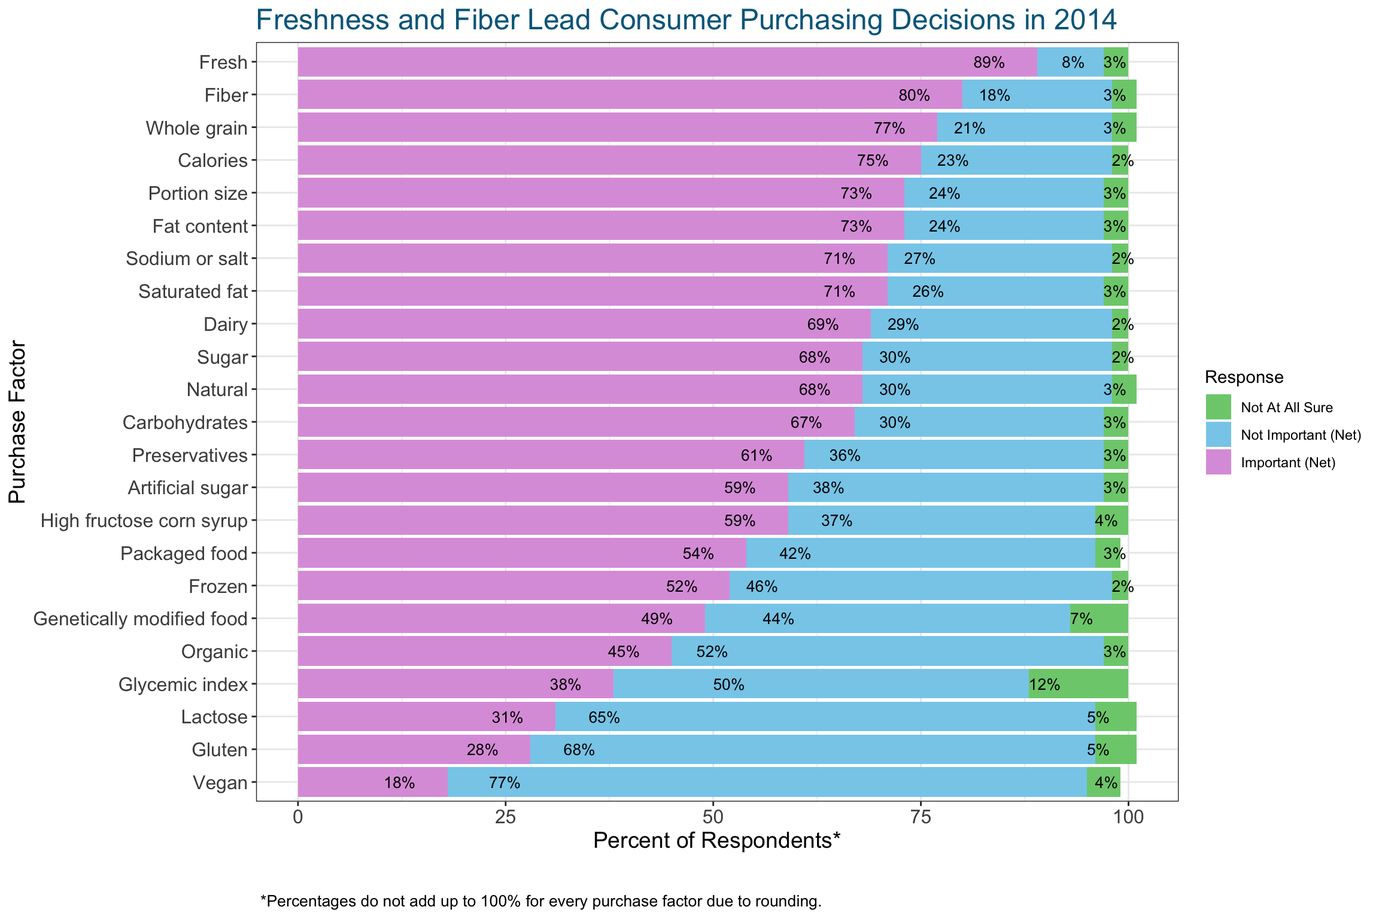
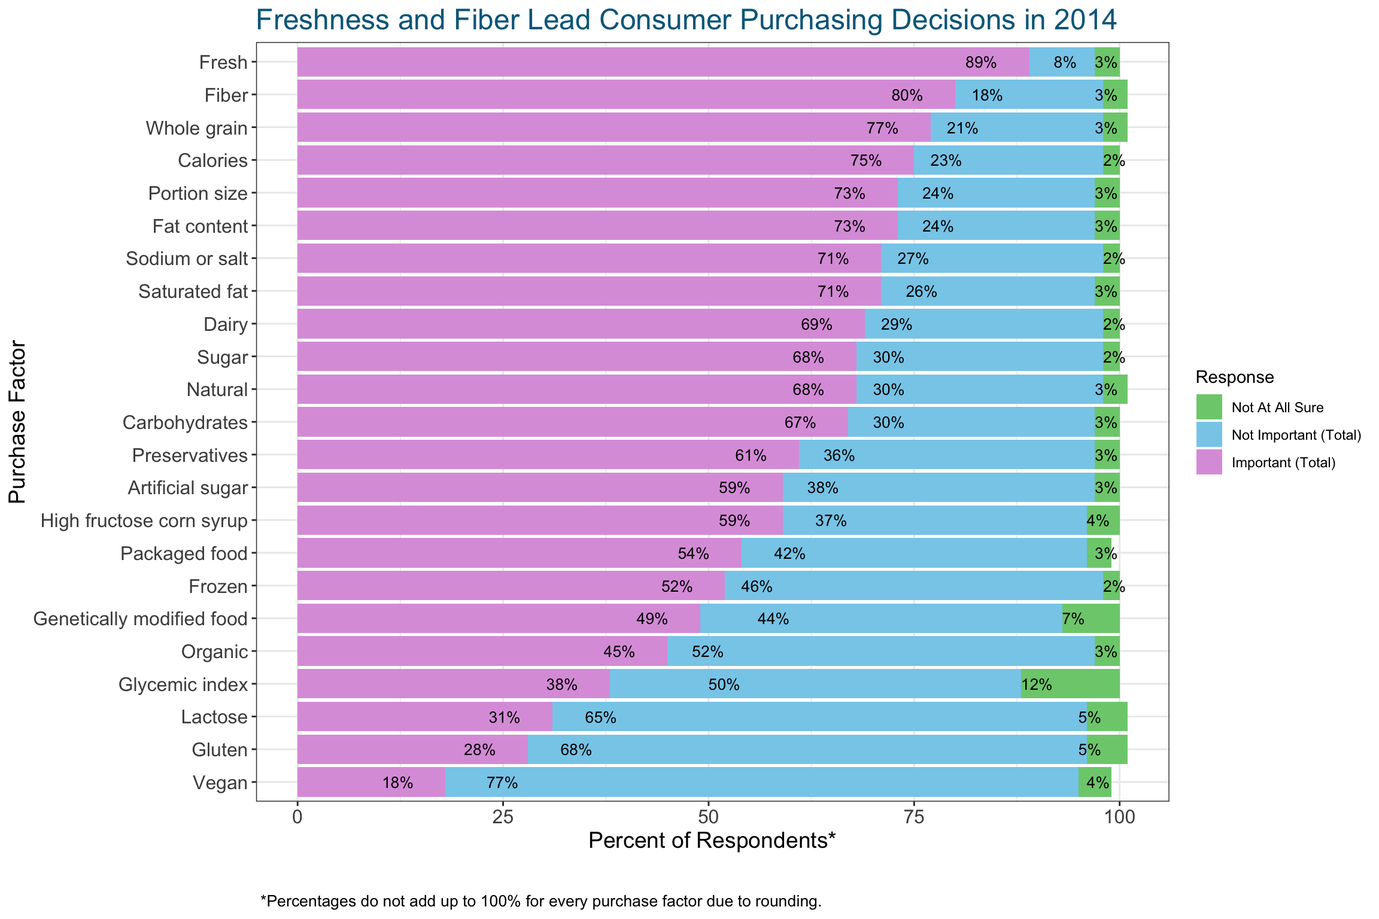
fixing typos and style

diff --git a/content/blog/2018-10-03-we-are-what-we-eat-trends-in-types-of-food-eaten.html b/content/blog/2018-10-03-we-are-what-we-eat-trends-in-types-of-food-eaten.html
@@ -18,9 +18,12 @@ type: 'post'
 
 
 
-<p>To recap, inspired by the articles I linked in my <a href="https://www.datamadepretty.com/blog/we-are-what-we-eat-getting-the-data-into-r/">previous post,</a> (<a href="http://www.pewresearch.org/fact-tank/2016/12/13/whats-on-your-table-how-americas-diet-has-changed-over-the-decades/">here</a>, <a href="https://www.vox.com/science-and-health/2017/2/2/14485226/americans-avocado-consumption-usda-report?mc_cid=dba0fc78bc&amp;mc_eid=8f698ac693">here</a>, and <a href="https://cspinet.org/resource/changing-american-diet-0">here</a>), I decided to investigate the USDA’s food consumption dataset to get an idea of how Americans’ diets have changed over time. I am also complementing this dataset with Harris Poll and Google Trends data. In the previous post, I demonstrated how I read the Excel files containing the USDA data into R and scraped the Harris Poll HTML tables. In this post, I am going to be sharing some interesting findings derived from my data.</p>
+<p>Inspired by the articles I linked in my <a href="https://www.datamadepretty.com/blog/we-are-what-we-eat-getting-the-data-into-r/">previous post,</a> (<a href="http://www.pewresearch.org/fact-tank/2016/12/13/whats-on-your-table-how-americas-diet-has-changed-over-the-decades/">here</a>, <a href="https://www.vox.com/science-and-health/2017/2/2/14485226/americans-avocado-consumption-usda-report?mc_cid=dba0fc78bc&amp;mc_eid=8f698ac693">here</a>, and <a href="https://cspinet.org/resource/changing-american-diet-0">here</a>), I decided to investigate the USDA’s food consumption dataset to get an idea of how Americans’ diets have changed over time. I am also complementing this dataset with Harris Poll and Google Trends data. In the previous post, I demonstrated how I read the Excel files containing the USDA data into R and scraped the Harris Poll HTML tables. In this post, I am going to be sharing some interesting findings derived from my data.</p>
 <div id="some-things-have-changed-over-the-last-40-years" class="section level2">
 <h2>Some Things Have Changed Over The Last 40 Years</h2>
+<p>The first section of this post discusses transformations that have taken place in how Americans eat, while the second section discusses a few trends that have remained constant over time.</p>
+<div id="americans-in-2015-got-less-milk-in-their-fridge-than-before-got-milk-campaign" class="section level3">
+<h3>Americans in 2015 Got Less Milk in their Fridge than Before “Got Milk” Campaign</h3>
 <p>The first thing that I found interesting about the data that the articles I cited briefly touched on as well, was the dramatic decrease in the consumption of milk since 1970. When I saw this trend, I was immediately puzzled. How was there such a dramatic decline over time when there were all those “Got Milk” ads? I swear that growing up, they were everywhere: bus stops, magazines and everyone was wearing the milk mustache, from Serena and Venus Williams to the Olsen twins, so what gives? It turns out after a little bit of research, I was able to uncover the truth about the “Got Milk?” ads. While largely popular, they were known to be <a href="https://www.huffingtonpost.com/gene-del-vecchio/got-milk-got-fired-5-valu_b_4938176.html">highly ineffective</a>, but they still ran the campaign for 20 years!</p>
 <p><img src="/blog/2018-10-03-we-are-what-we-eat-trends-in-types-of-food-eaten_files/figure-html/unnamed-chunk-3-1.png" width="768" style="display: block; margin: auto;" /></p>
 <p>It is no secret that Americans’ diets are shifting as American society itself is also changing. For example, millennials are the most diverse generation yet in American history, with <a href="https://www.brookings.edu/wp-content/uploads/2018/01/20180124_metro_millennialreport_pressrelease.pdf">44% of them identifying as non-white.</a> Their younger siblings, Generation Z, will be even more diverse in all regards. Lactose intolerance is actually very <a href="https://ghr.nlm.nih.gov/condition/lactose-intolerance#statistics">prevalent in most parts of the world</a> and as the majority of Americans come from more diverse backgrounds, it is possible that this could further contribute to declining milk consumption if people prefer to avoid it. Additionally, while there <a href="https://www.washingtonpost.com/news/food/wp/2018/08/03/you-might-think-there-are-more-vegetarians-than-ever-youd-be-wrong/?noredirect=on&amp;utm_term=.79b516951544">may not be conclusive evidence of higher rates of veganism</a>, there is definitely more awareness around the issue of sustainable agriculture and the impact of food production on the environment. Increasingly, Americans are opting to make more plant-based choices as campaigns like <a href="https://www.jhsph.edu/research/centers-and-institutes/johns-hopkins-center-for-a-livable-future/projects/MMP_old/index.html">“Meatless Monday”</a> show. For example, demand for almond milk has <a href="https://www.nielsen.com/us/en/insights/news/2016/americans-are-nuts-for-almond-milk.html">exploded in recent years</a> and a new range of products from oat milk to rice milk have come onto the market.</p>
@@ -28,26 +31,41 @@ type: 'post'
 <p><img src="/blog/2018-10-03-we-are-what-we-eat-trends-in-types-of-food-eaten_files/figure-html/unnamed-chunk-4-1.png" width="768" style="display: block; margin: auto;" /></p>
 <p>Unfortunately for the cow’s milk industry, these flavored milks though high growth, represent a very small part of the total milk market which is truly very much in decline. This example also illustrates the importance of always reading the units on a graph’s axes 🙂.</p>
 <p><img src="/blog/2018-10-03-we-are-what-we-eat-trends-in-types-of-food-eaten_files/figure-html/unnamed-chunk-5-1.png" width="768" style="display: block; margin: auto;" /></p>
-<p>As mentioned above, Americans are becoming more aware of the impact of food production on the environment and opting for more sustainable alternatives. It is now well-known that <a href="https://www.washingtonpost.com/lifestyle/food/heres-how-much-giving-up-beef-helps--or-doesnt-help--the-planet/2017/07/20/03bb5ba2-6d60-11e7-b9e2-2056e768a7e5_story.html?utm_term=.22ad7bcdca0b">beef produces more greenhouse gases than poultry</a> and that substituting at least some beef portions for vegetables or poultry would have a positive impact on the environment. Many Americans are limiting red meat due to health concerns in addition to environmental concerns. Red meat consumption has been associated with an <a href="https://www.newsweek.com/meat-proteins-heart-disease-risk-plant-based-diets-benefit-cardiovascular-869896">increased risk of heart disease</a> (since most of the studies done to date have been observational in nature and thus not causal, the jury is still out but regardless the topic has made many headlines, some as dramatic as <a href="https://www.independent.co.uk/news/science/red-meat-processed-meat-death-mortality-health-cancer-heart-disease-vegetarian-vegan-diet-a7016986.html">“Is meat killing us?”</a>). Concurrent with red meat’s decline, <a href="https://firstwefeast.com/features/2016/08/how-chicken-conquered-america/">chicken’s star has been rising</a>. Chicken is generally cheaper than beef, but it has become trendy as <a href="https://www.eater.com/2017/1/9/14169560/fried-chicken-trend">celebrity chefs</a> clamor to make their own take on the fried chicken sandwich and other classics. The trend is causing <a href="https://www.businessinsider.com/fried-chicken-is-taking-over-fast-food-2017-1">restaurants once known for selling beef</a> to sell chicken as well. For the above reasons, as of the mid-2000s chicken has surpassed beef as America’s favorite meat. Other meat consumption has remained relatively unchanged. Americans still seem to be infatuated with bacon, which is <a href="http://fortune.com/2015/05/19/bacon/">having its own renaissance</a> or <a href="https://en.wikipedia.org/wiki/Bacon_mania">“bacon mania,”</a> popularized over the internet.</p>
+</div>
+<div id="chicken-has-become-chic-to-eat" class="section level3">
+<h3>Chicken Has Become “Chic” To Eat</h3>
+<p>As mentioned above, Americans are becoming more aware of the impact of food production on the environment and opting for more sustainable alternatives. It is now well-known that <a href="https://www.washingtonpost.com/lifestyle/food/heres-how-much-giving-up-beef-helps--or-doesnt-help--the-planet/2017/07/20/03bb5ba2-6d60-11e7-b9e2-2056e768a7e5_story.html?utm_term=.22ad7bcdca0b">beef produces more greenhouse gases than poultry</a> and that substituting at least some beef portions with vegetables or poultry would have a positive impact on the environment. Many Americans are limiting red meat due to health concerns in addition to environmental concerns. Red meat consumption has been associated with an <a href="https://www.newsweek.com/meat-proteins-heart-disease-risk-plant-based-diets-benefit-cardiovascular-869896">increased risk of heart disease</a> (since most of the studies done to date have been observational in nature and thus not causal, the jury is still out but regardless the topic has made many headlines, some as dramatic as <a href="https://www.independent.co.uk/news/science/red-meat-processed-meat-death-mortality-health-cancer-heart-disease-vegetarian-vegan-diet-a7016986.html">“Is meat killing us?”</a>). Concurrent with red meat’s decline, <a href="https://firstwefeast.com/features/2016/08/how-chicken-conquered-america/">chicken’s star has been rising</a>. Chicken is generally cheaper than beef, but it has become trendy as <a href="https://www.eater.com/2017/1/9/14169560/fried-chicken-trend">celebrity chefs</a> clamor to make their own take on the fried chicken sandwich and other classics. The trend is causing <a href="https://www.businessinsider.com/fried-chicken-is-taking-over-fast-food-2017-1">restaurants once known for selling beef</a> to sell chicken as well. For the above reasons, as of the mid-2000s chicken has surpassed beef as America’s favorite meat. Other meat consumption has remained relatively unchanged. Americans still seem to be infatuated with bacon, which is <a href="http://fortune.com/2015/05/19/bacon/">having its own renaissance</a> or <a href="https://en.wikipedia.org/wiki/Bacon_mania">“bacon mania,”</a> popularized over the internet.</p>
 <p><img src="/blog/2018-10-03-we-are-what-we-eat-trends-in-types-of-food-eaten_files/figure-html/unnamed-chunk-6-1.png" width="768" style="display: block; margin: auto;" /></p>
+</div>
+<div id="american-food-is-diversifying-along-with-the-american-population" class="section level3">
+<h3>American Food is Diversifying Along With the American Population</h3>
 <p>As discussed above, America has diversified greatly over the last 40+ years. More immigrants from a wide array of continents have brought with them an increased interest in new foods, especially those from Mexico and Latin America. The below graph shows a handful of foods that have increased in per capita annual consumption. These are just a basket of foods available in the dataset, but I suspect if data was available on what types of dishes, rather than ingredients, Americans eat inside and outside of the home, we would also see an increase in diversity. As an Italian American, I am particularly proud to see that the country has fully embraced cooking with garlic. This is a cultural shift from the early 1900s, as seen in “It’s a Wonderful Life,” when Mr. Potter derides Italians as <a href="https://www.npr.org/2012/12/20/167620418/its-a-wonderful-italian-american-life">“a bunch of garlic eaters”</a> to George Bailey. We are now a nation of garlic eaters!</p>
 <p><img src="/blog/2018-10-03-we-are-what-we-eat-trends-in-types-of-food-eaten_files/figure-html/unnamed-chunk-8-1.png" width="1152" style="display: block; margin: auto;" /></p>
 <p>Additionally, taking a look at the imports of herbs and spices shows that they are more diverse than ever. Spices are often key to making a dish authentically and while the USDA foods database may not encompass every type of food that would be interesting to view trended over time, the spice data gives us more clues as to what people are eating. Imports of the spices on the below graph have especially taken off in the last 10-15 years, much outpacing total population growth over the same time period. The spice that actually grew the most in percentage terms was ginger, at 2,987% over the last 40 years, but is not pictured because it dwarfed the other spices and made it difficult to see their trends. The popularity of ginger is probably due in part to its myriad <a href="https://www.everydayhealth.com/diet-nutrition/diet/ginger-nutrition-facts-health-benefits-alternative-uses-more/">health benefits</a>.</p>
 <p><img src="/blog/2018-10-03-we-are-what-we-eat-trends-in-types-of-food-eaten_files/figure-html/unnamed-chunk-9-1.png" width="1152" style="display: block; margin: auto;" /></p>
+</div>
+<div id="freshness-and-fiber-lead-purchasing-decisions-but-generations-diverge-for-other-factors" class="section level3">
+<h3>Freshness and Fiber Lead Purchasing Decisions, but Generations Diverge for Other Factors</h3>
 <p>The findings from the USDA data can be compared with poll data to try to uncover the underlying causes of the food trends. Data from a <a href="https://theharrispoll.com/new-york-n-y-june-10-2014-most-americans-87-say-theyre-making-an-effort-to-eat-healthy-and-with-good-reason-as-a-majority-say-they-or-someone-in-their-household-monitor-or-restrict-their-2/">Harris Poll</a> taken in 2014 regarding the types of things Americans look for when purchasing food shows that Americans these days value freshness, fiber, and whole grains the most with 89%, 80%, and 77% respectively indicating that these characteristics are “important” (i.e. “Very important” or “Somewhat Important”) in their purchasing decisions.</p>
 <p><em>(One thing to note about the Harris Poll data is that they do not release margins of error because they believe they are “theoretical” and can be misleading. For this reason, my graphs below do not illustrate or include sampling error. The reader should be aware that when comparing percentages between groups, small differences may not actually be statistically significant.)</em></p>
 <p><img src="/blog/2018-10-03-we-are-what-we-eat-trends-in-types-of-food-eaten_files/figure-html/unnamed-chunk-10-1.png" width="1152" style="display: block; margin: auto;" /></p>
 <p>Looking at the USDA data, we can see that over time, Americans have been consuming more foods in the “fresh” category and less foods in the “canned” category of fruits, vegetables, and seafood. (Unfortuntely since the mid-2000s, fresh vegetable consumption has been decreasing, although it is still above pre-1990s values.) This is interesting since for many years, humans had been searching for ways to preserve food for longer periods of time. <a href="https://www.history.com/news/what-it-says-on-the-tin-a-brief-history-of-canned-food">Canning had been a breakthrough</a> and <a href="https://www.womenshistory.org/articles/how-highly-processed-foods-liberated-1950s-housewives">housewives in the 1950s</a> felt liberated by no longer needing to always prepare food fresh.</p>
 <p><img src="/blog/2018-10-03-we-are-what-we-eat-trends-in-types-of-food-eaten_files/figure-html/unnamed-chunk-11-1.png" width="1152" style="display: block; margin: auto;" /></p>
-<p>Over time, Americans’ fascination with canned food has been reversing, translating into a higher demand for “fresh” food. Americans have been demanding greater transparency into what goes into their food and wanting to know more details about its source. To meet this demand, Farmer’s Markets have sprung up all around the country as well as restaurants which list their producers by name and claim to <a href="https://www.businessinsider.com/the-demand-for-local-food-is-growing-2017-4">“source locally”</a>. Popular culture has poked fun at the transparency in sourcing trend, like on the show <a href="https://www.newyorker.com/culture/on-television/food-and-drink-were-the-great-subject-of-portlandia">Portlandia,</a> where a couple out to dinner demand to see the “papers” of a chicken named Colin to ensure he lived a happy life before they eat him. Although the show portrays egaggerated reactions on the part of the characters, it correctly highlights Americans’ increased ethical awareness in relation to their food itself as well as its sourcing.</p>
-<p>The data from the Harris Poll also shows that there are generational similarities and differences in what Americans are eating these days. Freshness, fiber, and whole grains are the top 3 purchasing factors among all generations, but older generations tended to consider them more, as is seen in the graph below. This was also the the case with many of the other purchase factors. In general, older generations are more conscious about what they eat. However, artifical sugar and packaged foods in particular are interesting since they did not follow the pattern of older generations considering them more, instead being considered pretty equally among all generations. This points to their relative increased importance to younger generations and suggests the trends we saw above in regard to fresh food will continue.</p>
+<p>Over time, Americans’ fascination with canned food has been reversing, translating into a higher demand for “fresh” food. Americans have been demanding greater transparency into what goes into their food and wanting to know more details about its source. To meet this demand, Farmer’s Markets have sprung up all around the country as well as restaurants which list their producers by name and claim to <a href="https://www.businessinsider.com/the-demand-for-local-food-is-growing-2017-4">“source locally”</a>. Popular culture has poked fun at the transparency in sourcing trend, like on the show <a href="https://www.newyorker.com/culture/on-television/food-and-drink-were-the-great-subject-of-portlandia">Portlandia,</a> where a couple out to dinner demand to see the “papers” of a chicken named Colin to ensure he lived a happy life before they eat him. Although the show portrays exaggerated reactions on the part of the characters, it correctly highlights Americans’ increased ethical awareness in relation to their food itself as well as its sourcing.</p>
+<p>The data from the Harris Poll also shows that there are generational similarities and differences in what Americans are eating these days. Freshness, fiber, and whole grains are the top 3 purchasing factors among all generations, but older generations tended to consider them more, as is seen in the graph below. This was also the the case with many of the other purchase factors. In general, older generations are more conscious about what they eat. However, artifical sugar and packaged foods in particular are interesting since they did not follow the pattern of older generations taking them into account them more, instead being valued pretty equally among all generations. This points to their relative increased importance to younger generations and suggests the trends we saw above in regard to fresh food will continue.</p>
 <p><img src="/blog/2018-10-03-we-are-what-we-eat-trends-in-types-of-food-eaten_files/figure-html/unnamed-chunk-12-1.png" width="1152" style="display: block; margin: auto;" /></p>
-<p>A select few purchase factors were actually considered more by the younger generations than the older generations, pointing to a generational shift in attitudes about these purchase factors. As is seen in the graph below, millennials considered gluten, organic, and vegan characteristics the most differently than older generations. Generation X was also very likely to consider whether a product was organic and the most likely of all generations to consider if a product is natural. A whopping 27% of millennials said they considered whether a product was vegan, perhaps due to increased awareness of the “flexitarian” lifestyle as discussed above. This points to the fact that among shoppers today, younger generations are spearheading some of the trends in food that are seen in the data, like the demand for environmentally sustainable and natural food.</p>
+<p>A select few purchase factors were actually considered more by the younger generations than the older generations, pointing to a generational shift in attitudes about these purchase factors. As is seen in the graph below, millennials valued gluten, organic, and vegan characteristics the most differently than older generations. Generation X was also very likely to take note of whether a product was organic and the most likely of all generations to care if a product is natural. A whopping 27% of millennials said they valued whether a product was vegan, perhaps due to increased awareness of the “flexitarian” lifestyle as discussed above. This points to the fact that among shoppers today, younger generations are spearheading some of the trends in food that are seen in the data, like the demand for environmentally sustainable and natural food.</p>
 <p><img src="/blog/2018-10-03-we-are-what-we-eat-trends-in-types-of-food-eaten_files/figure-html/unnamed-chunk-13-1.png" width="1152" style="display: block; margin: auto;" /></p>
 <p>Among those with children in their household, they considered whether food is organic, vegan, natural, and contains gluten the most differently in a positive direction than those who did not have children. There is likely a good amount of overlap between Millennials, Generation X and households with children as these generations are likely to be within the child-bearing age. However, it is still interesting to see that these particular purchase trends are more pronounced in households with children. Studies have shown that children <a href="https://www.adweek.com/brand-marketing/when-does-brand-loyalty-start-62841/">show brand awareness</a> at a very young age and are likely to purchase things their parents bought. This also points to future generations being raised to be more conscious of where their food comes from and its sustainability.</p>
 <p><img src="/blog/2018-10-03-we-are-what-we-eat-trends-in-types-of-food-eaten_files/figure-html/unnamed-chunk-14-1.png" width="960" style="display: block; margin: auto;" /></p>
+</div>
+<div id="an-increase-in-allergies-shapes-menus-for-all" class="section level3">
+<h3>An Increase in Allergies Shapes Menus for All</h3>
 <p>Allergies could also be influencing the future of food for years to come. Younger generations are suffering food allergies at higher rates than older generations. Some of the main offenders are shown in the graph below. Millennials and Gen-Xers are more likely to have someone in their household who restricts typical allergy-inducing foods. This is in contrast with older generations who tended to restrict food associated with exacerbating a chronic-illness that could be associated with age. For example, older generations restricted sodium/salt (blood pressure), sugar (diabetes), and meat (red meat associated with greater chance of heart disease) more than younger generations. Food allergies are <a href="https://www.washingtonpost.com/lifestyle/food/how-other-peoples-food-allergies-are-changing-what-you-eat/2017/11/05/fc4d5f14-bf44-11e7-97d9-bdab5a0ab381_story.html?utm_term=.9b0e9d5470fd">shaping menus all over the country</a>, with many places outright banning certain foods like peanuts. New restaurants are emerging that avoid selling the most common allergens, making them less available to those who do not suffer an allergy as well.</p>
 <p><img src="/blog/2018-10-03-we-are-what-we-eat-trends-in-types-of-food-eaten_files/figure-html/unnamed-chunk-15-1.png" width="1152" style="display: block; margin: auto;" /></p>
+</div>
+<div id="healthy-is-the-new-trendy" class="section level3">
+<h3>“Healthy” is the New “Trendy”</h3>
 <p>While some foods, like peanuts, have been banned around the country, other foods like almonds and yogurt have become breakout stars. The graph below shows that yogurt, certain nuts, and berries have all seen their popularity increase as people are becoming aware of their health benefits. “Anti-oxidants”, “probiotics”, and other terms are now common and foods that contain these compounds are being added to daily diets around the country.</p>
 <p><img src="/blog/2018-10-03-we-are-what-we-eat-trends-in-types-of-food-eaten_files/figure-html/unnamed-chunk-16-1.png" width="1152" style="display: block; margin: auto;" /></p>
 <p>Similar to the above foods, there has been an influx of new healthy, “trendy” foods. Examples are qunioa and kale which exploded onto the market a few years ago and were/still are everywhere. Lately, <a href="https://www.vox.com/the-goods/2018/9/19/17874782/cauliflower-trend-vegetarian-paleo-rice">cauliflower</a> and <a href="https://www.asaucykitchen.com/vegan-bbq-jackfruit-pulled-pork-sandwiches/">jackfruit</a> (popular with vegetarians due to its similar look to meat when cooked) have been gaining ground. These foods can be contrasted with <a href="https://www.thekitchn.com/10-recipes-that-defined-the-1980s-recipes-of-the-decade-200638">“trendy” foods of the 1980s</a> like jello, spinach dip, and microwavable pizza snacks, which weren’t necessarily healthy.</p>
@@ -57,6 +75,7 @@ type: 'post'
 <p>What if I plot some other search terms that follow the same pattern?</p>
 <p><img src="/blog/2018-10-03-we-are-what-we-eat-trends-in-types-of-food-eaten_files/figure-html/unnamed-chunk-21-1.png" width="768" style="display: block; margin: auto;" /></p>
 <p>Yup, you guessed it, Americans’ interest in “healthly eating” terms correlates very well with their New Years Resolutions. Unfortunately, Americans are <em>still</em> not actually eating as healthy as they should be, as we will see in the next section, titled “Some Things Have Remained the Same”.</p>
+</div>
 </div>
 <div id="some-things-have-remained-the-same-40-years-later" class="section level2">
 <h2>Some Things Have Remained the Same 40 Years Later</h2>
